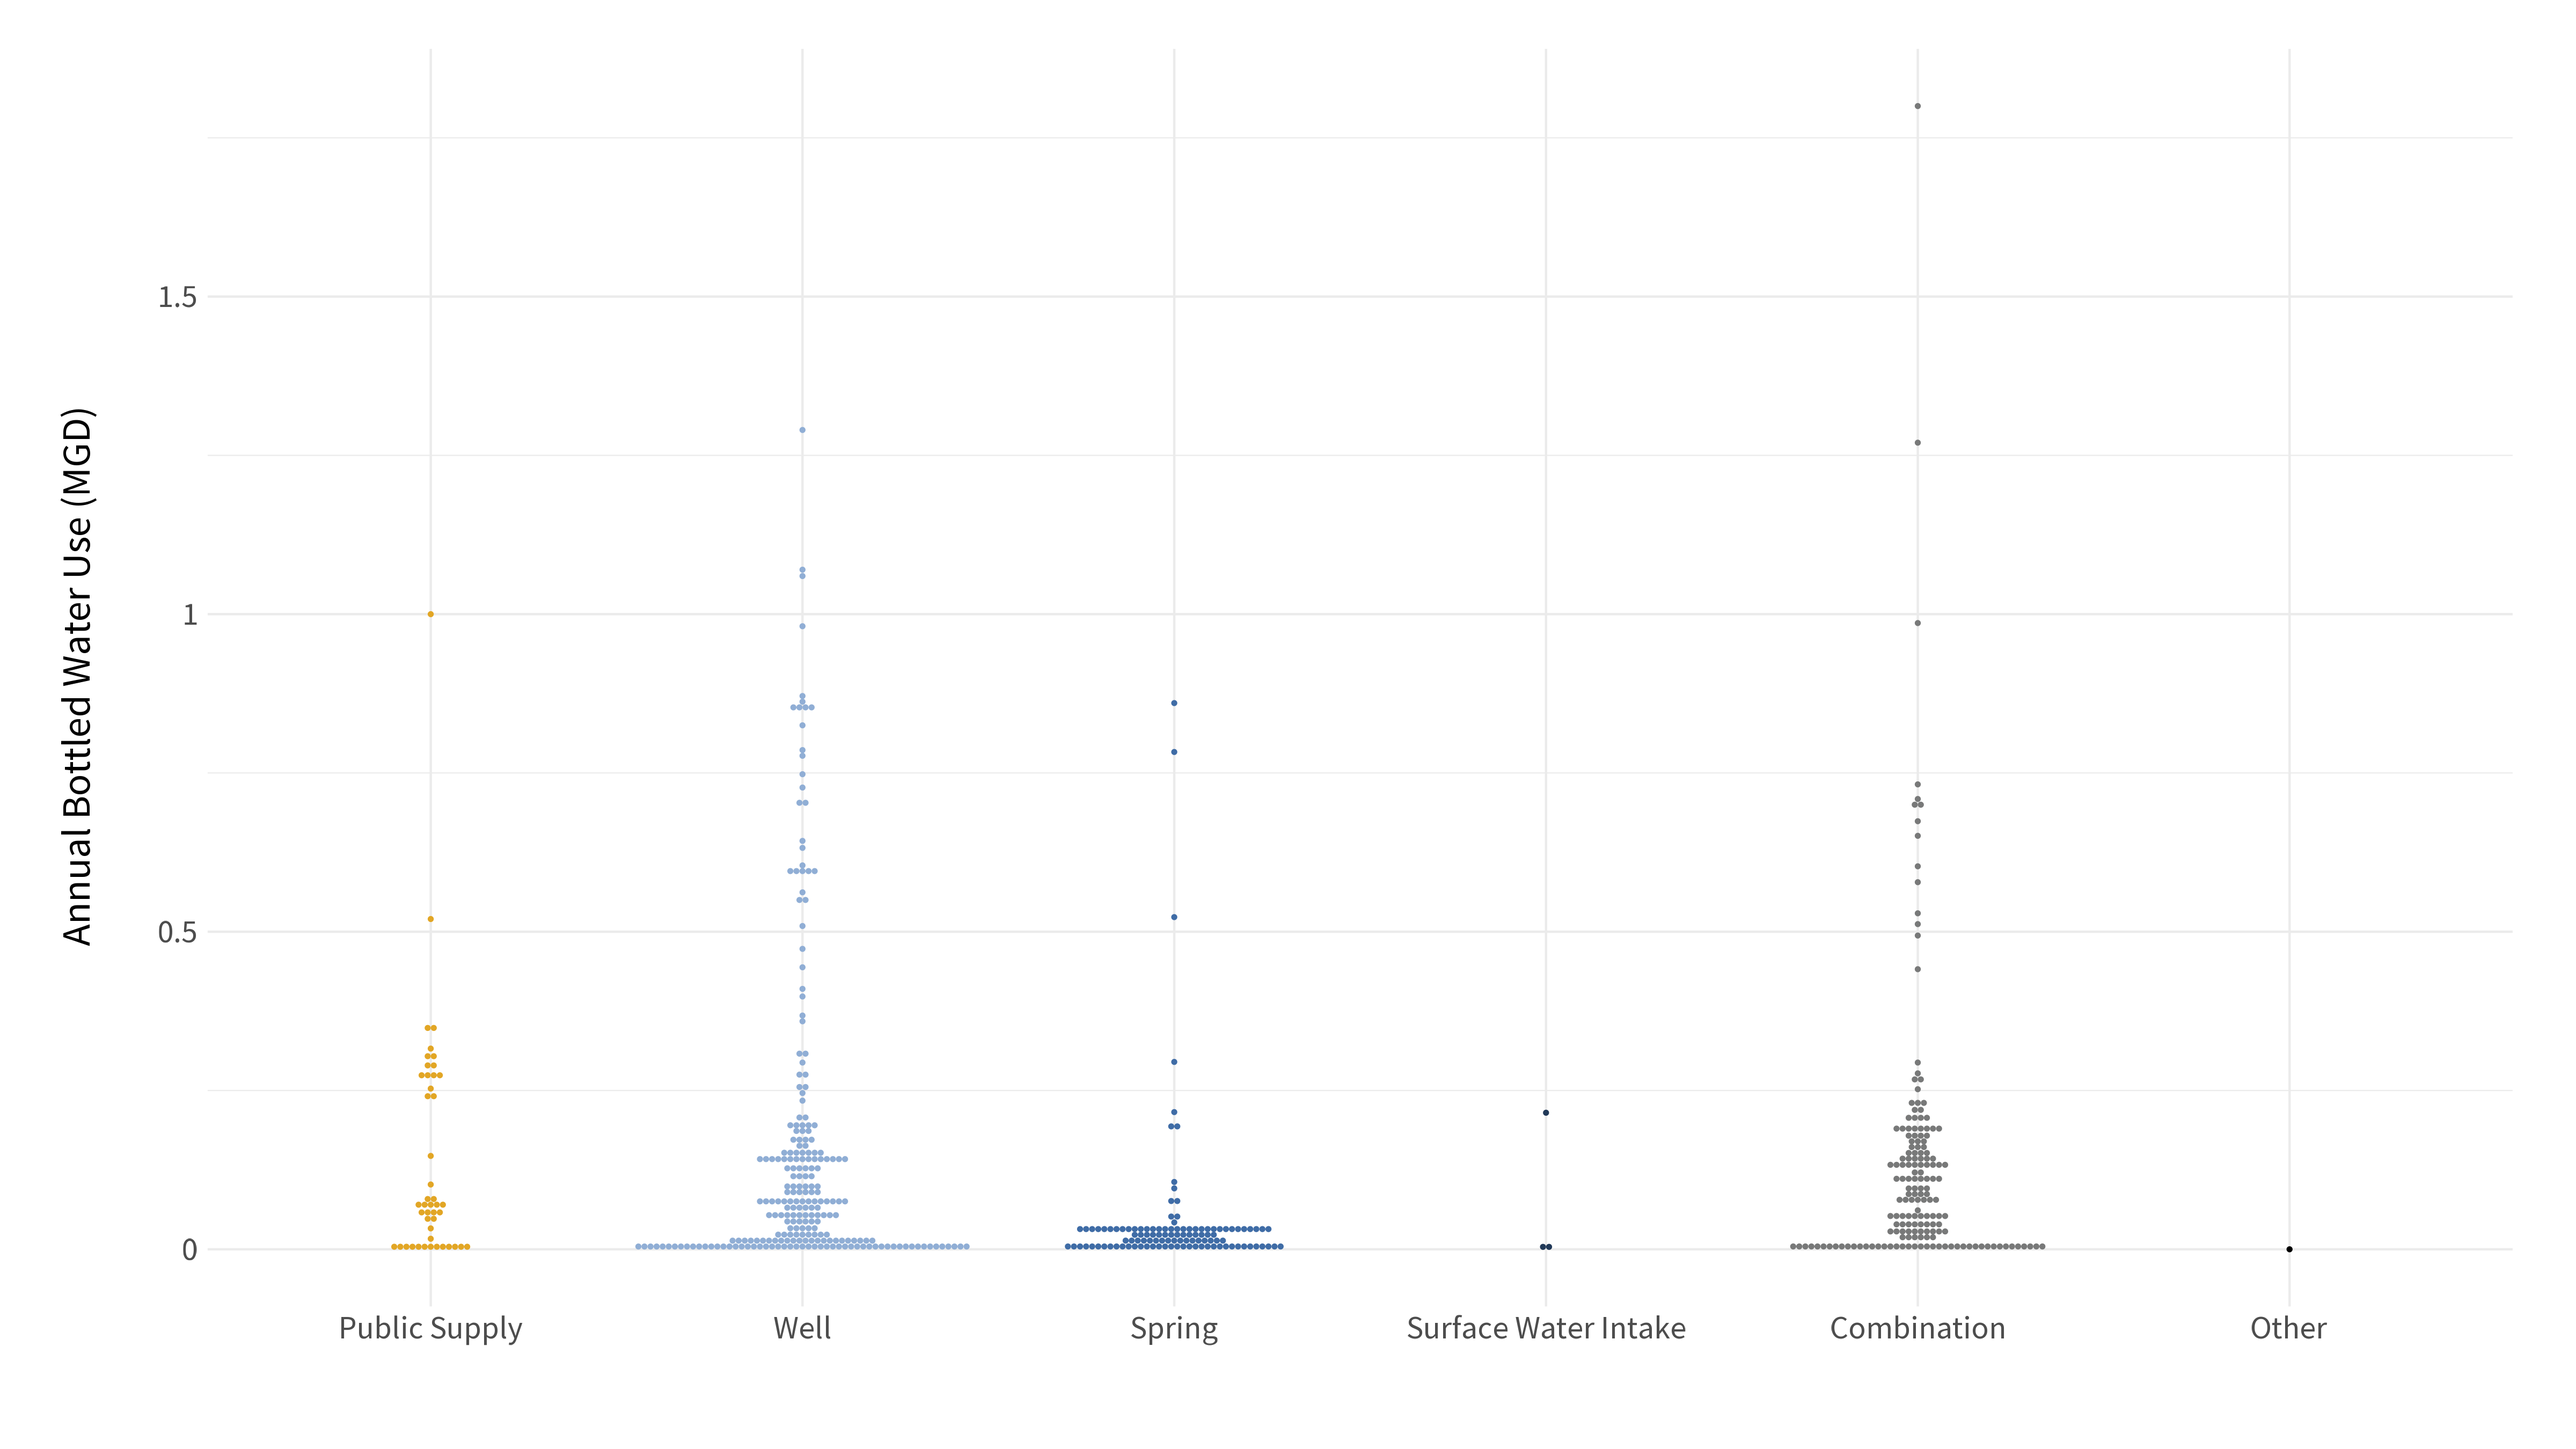
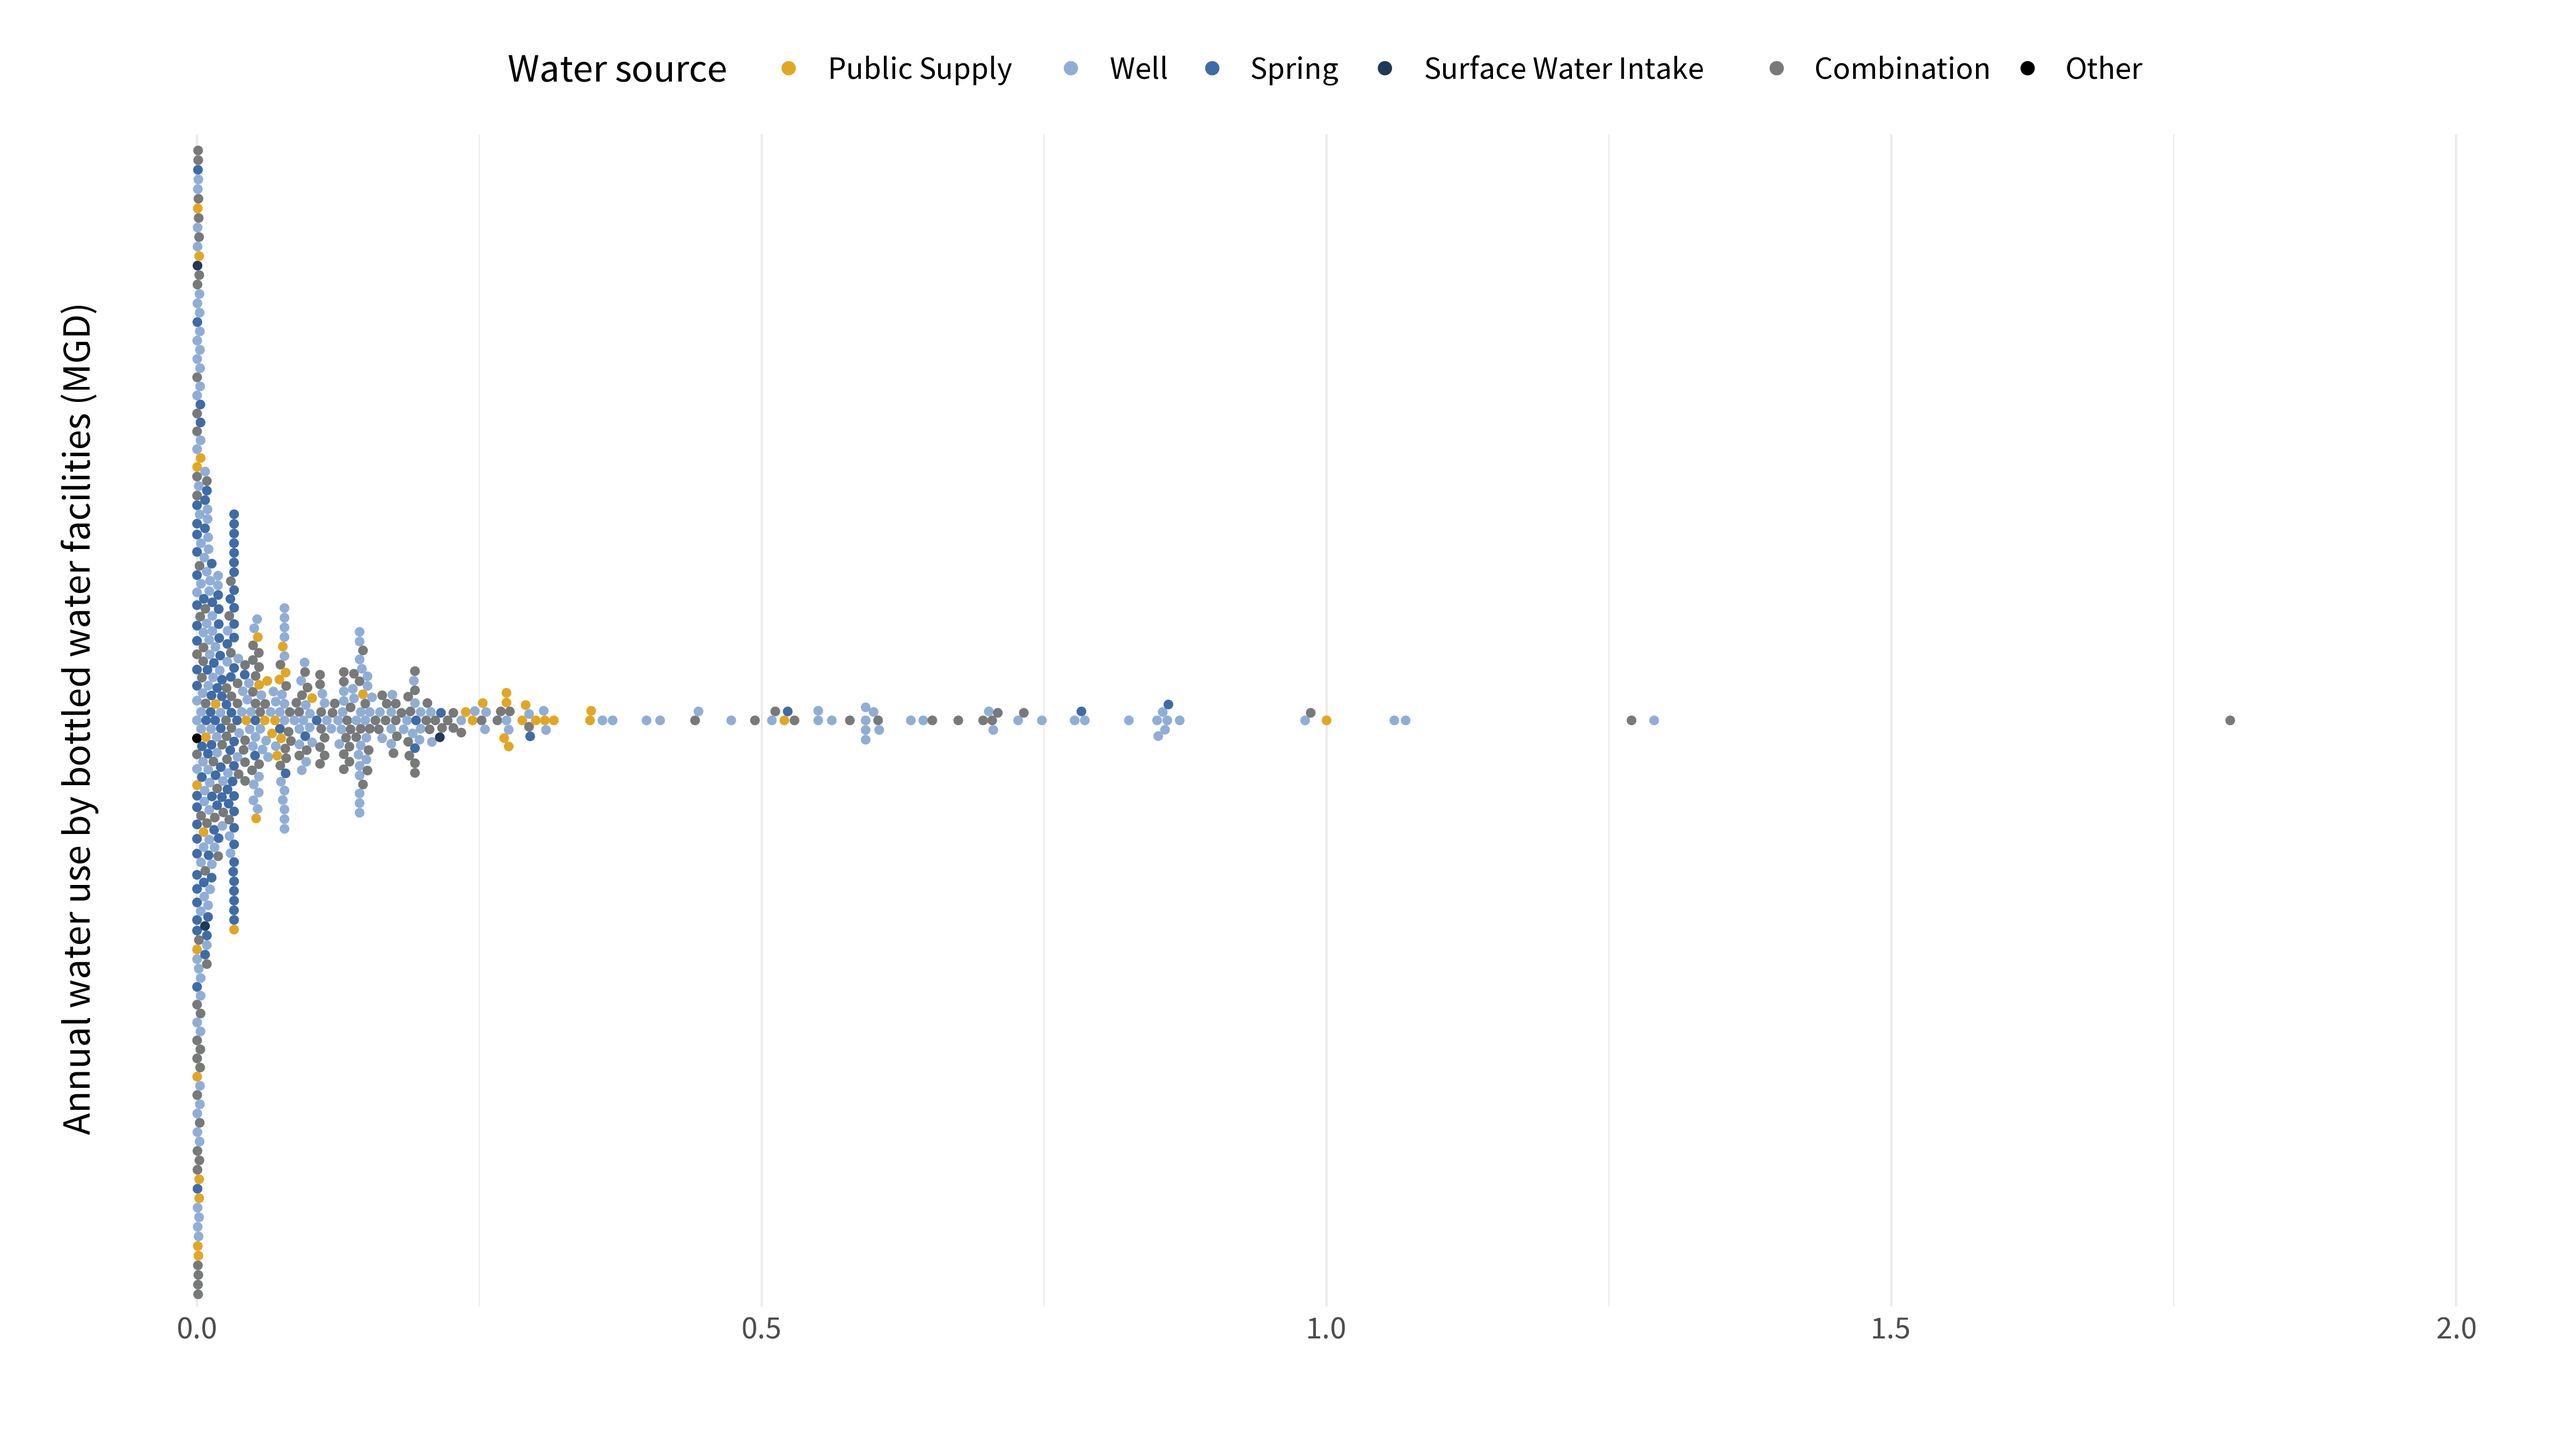
Add latest beeswarm figures

diff --git a/src/components/WaterUse.vue b/src/components/WaterUse.vue
@@ -17,7 +17,8 @@
         <p v-html="useText.paragraph3" />
       </div>
       <div id="img-bw-use-beeswarm" class="img-container">
-        <img src="../assets/images/annual_bottled_water_use_beeswarm.png">
+        <img v-if="!mobileView" src="../assets/images/annual_bottled_water_use_beeswarm.png">
+        <img v-if="mobileView" src="../assets/images/annual_bottled_water_use_beeswarm_mobile.png">
       </div>
     </div>
   </section>
